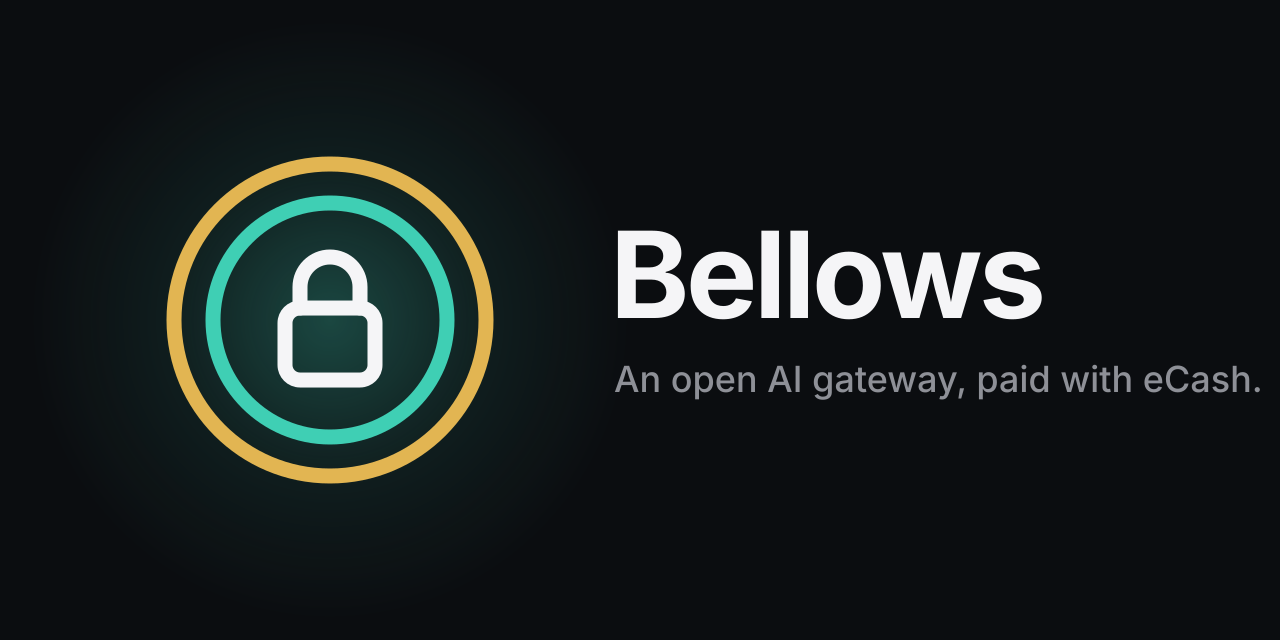
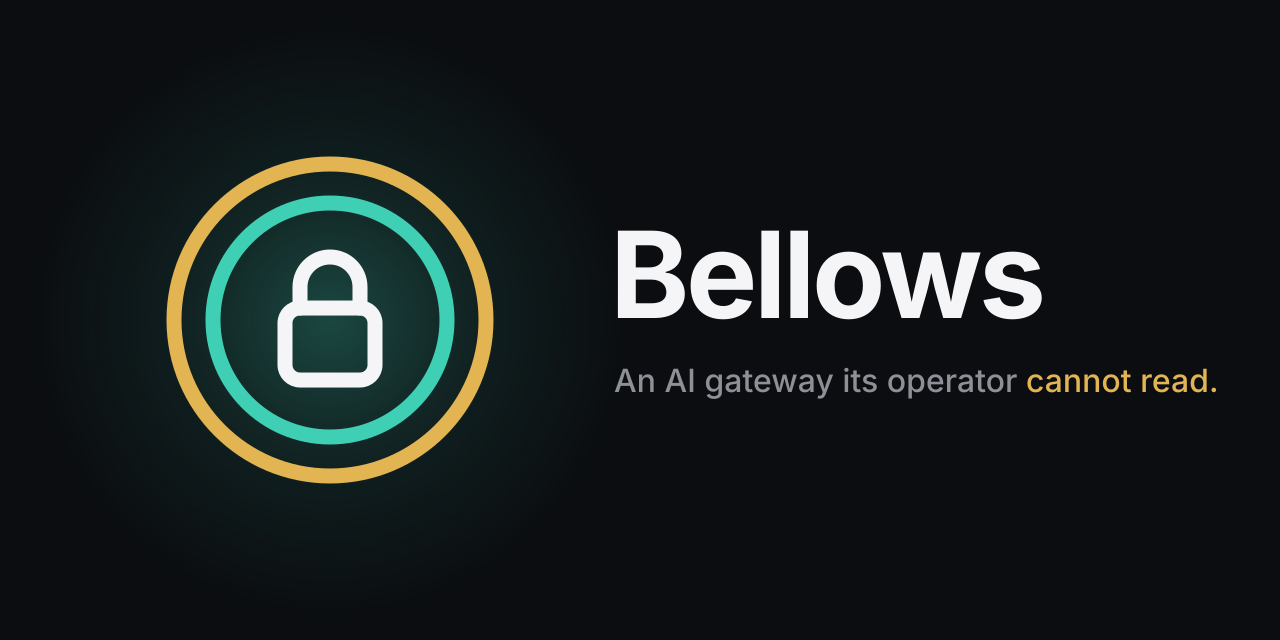
brand: the link preview says what the site now leads with (#13)
Claude-Session: https://claude.ai/code/session_01Gn2VCbdztFekyG4b4LRiEB

Changed region(s): [[0.4688, 0.5625, 1.0, 0.625]]

diff --git a/site/index.html b/site/index.html
@@ -14,7 +14,7 @@
 <meta property="og:image" content="https://bellows.forgereserve.org/assets/social-preview.png">
 <meta property="og:image:width" content="1280">
 <meta property="og:image:height" content="640">
-<meta property="og:image:alt" content="The Bellows logo, a gold ring and a teal ring around a white lock, beside the words: An open AI gateway, paid with eCash.">
+<meta property="og:image:alt" content="The Bellows logo, a gold ring and a teal ring around a white lock, beside the words: An AI gateway its operator cannot read.">
 <meta name="twitter:card" content="summary_large_image">
 <meta name="twitter:title" content="Bellows | An AI gateway its operator cannot read">
 <meta name="twitter:description" content="Bellows is an open-source AI gateway that runs sealed: its operator cannot read your prompts or see who paid. It speaks the OpenAI API and takes Cashu eCash per request.">

diff --git a/site/docs/build-send-through-oblivious-http.html b/site/docs/build-send-through-oblivious-http.html
@@ -14,7 +14,7 @@
 <meta property="og:image" content="https://bellows.forgereserve.org/assets/social-preview.png">
 <meta property="og:image:width" content="1280">
 <meta property="og:image:height" content="640">
-<meta property="og:image:alt" content="The Bellows logo, a gold ring and a teal ring around a white lock, beside the words: An open AI gateway, paid with eCash.">
+<meta property="og:image:alt" content="The Bellows logo, a gold ring and a teal ring around a white lock, beside the words: An AI gateway its operator cannot read.">
 <meta name="twitter:card" content="summary_large_image">
 <meta name="twitter:title" content="Send through Oblivious HTTP | Build on Bellows | Bellows">
 <meta name="twitter:description" content="Send each call through a relay with bellowsFetch, so who is asking is hidden from the operator when someone else runs the relay.">

diff --git a/site/docs/operate.html b/site/docs/operate.html
@@ -14,7 +14,7 @@
 <meta property="og:image" content="https://bellows.forgereserve.org/assets/social-preview.png">
 <meta property="og:image:width" content="1280">
 <meta property="og:image:height" content="640">
-<meta property="og:image:alt" content="The Bellows logo, a gold ring and a teal ring around a white lock, beside the words: An open AI gateway, paid with eCash.">
+<meta property="og:image:alt" content="The Bellows logo, a gold ring and a teal ring around a white lock, beside the words: An AI gateway its operator cannot read.">
 <meta name="twitter:card" content="summary_large_image">
 <meta name="twitter:title" content="Operating a Bellows | Bellows developers">
 <meta name="twitter:description" content="Run a Bellows on Tinfoil Containers, step by step, so that its operator cannot read the requests, the answers, the balances or the keys.">

diff --git a/site/docs/build.html b/site/docs/build.html
@@ -14,7 +14,7 @@
 <meta property="og:image" content="https://bellows.forgereserve.org/assets/social-preview.png">
 <meta property="og:image:width" content="1280">
 <meta property="og:image:height" content="640">
-<meta property="og:image:alt" content="The Bellows logo, a gold ring and a teal ring around a white lock, beside the words: An open AI gateway, paid with eCash.">
+<meta property="og:image:alt" content="The Bellows logo, a gold ring and a teal ring around a white lock, beside the words: An AI gateway its operator cannot read.">
 <meta name="twitter:card" content="summary_large_image">
 <meta name="twitter:title" content="Build on Bellows | Bellows developers">
 <meta name="twitter:description" content="The guide: verify an engine, pay with eCash, chat, stream and go through Oblivious HTTP, with examples in curl, JavaScript and Python.">

diff --git a/site/docs/operate-2-make-the-keys-offline.html b/site/docs/operate-2-make-the-keys-offline.html
@@ -14,7 +14,7 @@
 <meta property="og:image" content="https://bellows.forgereserve.org/assets/social-preview.png">
 <meta property="og:image:width" content="1280">
 <meta property="og:image:height" content="640">
-<meta property="og:image:alt" content="The Bellows logo, a gold ring and a teal ring around a white lock, beside the words: An open AI gateway, paid with eCash.">
+<meta property="og:image:alt" content="The Bellows logo, a gold ring and a teal ring around a white lock, beside the words: An AI gateway its operator cannot read.">
 <meta name="twitter:card" content="summary_large_image">
 <meta name="twitter:title" content="2. Make the keys, offline | Operator guide | Bellows">
 <meta name="twitter:description" content="Make the volume key, the wallet secret and the admin token on an offline machine, and back them up.">

diff --git a/site/docs/build-send-a-chat-request.html b/site/docs/build-send-a-chat-request.html
@@ -14,7 +14,7 @@
 <meta property="og:image" content="https://bellows.forgereserve.org/assets/social-preview.png">
 <meta property="og:image:width" content="1280">
 <meta property="og:image:height" content="640">
-<meta property="og:image:alt" content="The Bellows logo, a gold ring and a teal ring around a white lock, beside the words: An open AI gateway, paid with eCash.">
+<meta property="og:image:alt" content="The Bellows logo, a gold ring and a teal ring around a white lock, beside the words: An AI gateway its operator cannot read.">
 <meta name="twitter:card" content="summary_large_image">
 <meta name="twitter:title" content="Send a chat request | Build on Bellows | Bellows">
 <meta name="twitter:description" content="Send an OpenAI chat request with curl, JavaScript or any OpenAI client, and read what it cost.">

diff --git a/site/docs/operate-5-approve-the-release-in-your-keyserver.html b/site/docs/operate-5-approve-the-release-in-your-keyserver.html
@@ -14,7 +14,7 @@
 <meta property="og:image" content="https://bellows.forgereserve.org/assets/social-preview.png">
 <meta property="og:image:width" content="1280">
 <meta property="og:image:height" content="640">
-<meta property="og:image:alt" content="The Bellows logo, a gold ring and a teal ring around a white lock, beside the words: An open AI gateway, paid with eCash.">
+<meta property="og:image:alt" content="The Bellows logo, a gold ring and a teal ring around a white lock, beside the words: An AI gateway its operator cannot read.">
 <meta name="twitter:card" content="summary_large_image">
 <meta name="twitter:title" content="5. Approve the release in your keyserver | Operator guide | Bellows">
 <meta name="twitter:description" content="Approve the release in your keyserver and sign your operator announcement.">

diff --git a/site/docs/build-check-which-build-it-runs.html b/site/docs/build-check-which-build-it-runs.html
@@ -14,7 +14,7 @@
 <meta property="og:image" content="https://bellows.forgereserve.org/assets/social-preview.png">
 <meta property="og:image:width" content="1280">
 <meta property="og:image:height" content="640">
-<meta property="og:image:alt" content="The Bellows logo, a gold ring and a teal ring around a white lock, beside the words: An open AI gateway, paid with eCash.">
+<meta property="og:image:alt" content="The Bellows logo, a gold ring and a teal ring around a white lock, beside the words: An AI gateway its operator cannot read.">
 <meta name="twitter:card" content="summary_large_image">
 <meta name="twitter:title" content="Check which build it runs | Build on Bellows | Bellows">
 <meta name="twitter:description" content="Read the attested identity, and verify it with verifyBellows before you send anything.">

diff --git a/site/docs/index.html b/site/docs/index.html
@@ -14,7 +14,7 @@
 <meta property="og:image" content="https://bellows.forgereserve.org/assets/social-preview.png">
 <meta property="og:image:width" content="1280">
 <meta property="og:image:height" content="640">
-<meta property="og:image:alt" content="The Bellows logo, a gold ring and a teal ring around a white lock, beside the words: An open AI gateway, paid with eCash.">
+<meta property="og:image:alt" content="The Bellows logo, a gold ring and a teal ring around a white lock, beside the words: An AI gateway its operator cannot read.">
 <meta name="twitter:card" content="summary_large_image">
 <meta name="twitter:title" content="Developers | Bellows">
 <meta name="twitter:description" content="Build an app on a Bellows, check what it runs, or run your own: guides and references, grouped by what you want to do.">

diff --git a/site/docs/api.html b/site/docs/api.html
@@ -14,7 +14,7 @@
 <meta property="og:image" content="https://bellows.forgereserve.org/assets/social-preview.png">
 <meta property="og:image:width" content="1280">
 <meta property="og:image:height" content="640">
-<meta property="og:image:alt" content="The Bellows logo, a gold ring and a teal ring around a white lock, beside the words: An open AI gateway, paid with eCash.">
+<meta property="og:image:alt" content="The Bellows logo, a gold ring and a teal ring around a white lock, beside the words: An AI gateway its operator cannot read.">
 <meta name="twitter:card" content="summary_large_image">
 <meta name="twitter:title" content="Bellows API | Bellows developers">
 <meta name="twitter:description" content="The client API, the operator API and the discovery format, with every path, header, field and error code.">

diff --git a/site/docs/operators.html b/site/docs/operators.html
@@ -14,7 +14,7 @@
 <meta property="og:image" content="https://bellows.forgereserve.org/assets/social-preview.png">
 <meta property="og:image:width" content="1280">
 <meta property="og:image:height" content="640">
-<meta property="og:image:alt" content="The Bellows logo, a gold ring and a teal ring around a white lock, beside the words: An open AI gateway, paid with eCash.">
+<meta property="og:image:alt" content="The Bellows logo, a gold ring and a teal ring around a white lock, beside the words: An AI gateway its operator cannot read.">
 <meta name="twitter:card" content="summary_large_image">
 <meta name="twitter:title" content="Operators | Bellows developers">
 <meta name="twitter:description" content="Operator announcements on Nostr, choosing among many operators, and moving a balance from one to another.">

diff --git a/site/docs/ohttp.html b/site/docs/ohttp.html
@@ -14,7 +14,7 @@
 <meta property="og:image" content="https://bellows.forgereserve.org/assets/social-preview.png">
 <meta property="og:image:width" content="1280">
 <meta property="og:image:height" content="640">
-<meta property="og:image:alt" content="The Bellows logo, a gold ring and a teal ring around a white lock, beside the words: An open AI gateway, paid with eCash.">
+<meta property="og:image:alt" content="The Bellows logo, a gold ring and a teal ring around a white lock, beside the words: An AI gateway its operator cannot read.">
 <meta name="twitter:card" content="summary_large_image">
 <meta name="twitter:title" content="Oblivious HTTP | Bellows developers">
 <meta name="twitter:description" content="Oblivious HTTP to a Bellows: the gateway, replays, admission, streaming, the client and the relay.">
